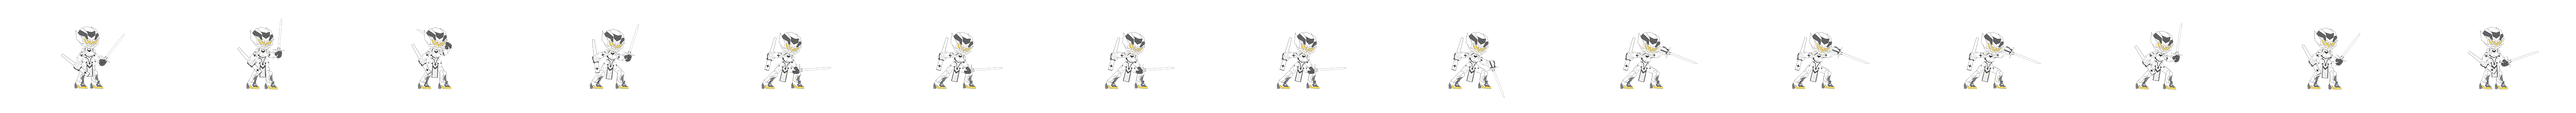
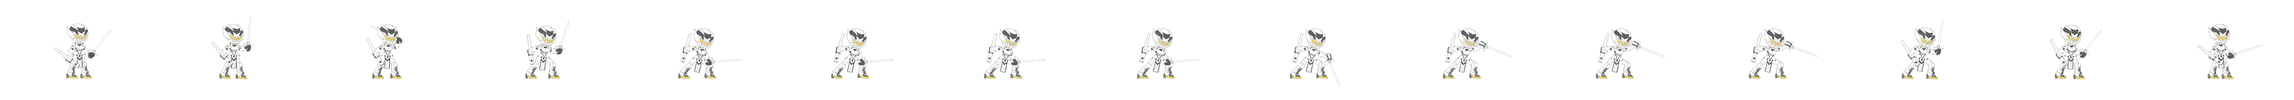
UI complete visual

diff --git a/source/Game/GameObjectTypes.h b/source/Game/GameObjectTypes.h
@@ -11,7 +11,6 @@ Updated:    October		10, 2023
 
 #pragma once
 
-#pragma once
 
 enum class GameObjectTypes
 {
@@ -151,6 +150,66 @@ static std::string toString(GameObjectTypes type)
         case GameObjectTypes::AtkspdBuff_4: return "AtkspdBuff_4";
         case GameObjectTypes::AtkspdBuff_8: return "AtkspdBuff_8";
         case GameObjectTypes::AtkspdBuff_16: return "AtkspdBuff_16";
+        case GameObjectTypes::BuffUnitEnd: return "BuffUnitEnd";
+
+        default: return "Unknown";
+    }
+}
+
+static const char* toStringPath(GameObjectTypes type)
+{
+    switch (type)
+    {
+        case GameObjectTypes::MeleeUnit: return "MeleeUnit";
+        case GameObjectTypes::Sword_1: return "assets/buttons/sword.png";
+        case GameObjectTypes::Sword_2: return "assets/buttons/sword.png";
+        case GameObjectTypes::Sword_4: return "assets/buttons/sword.png";
+        case GameObjectTypes::Sword_8: return "assets/buttons/sword.png";
+        case GameObjectTypes::Sword_16: return "assets/buttons/sword.png";
+
+        case GameObjectTypes::RangedUnit: return "RangedUnit";
+        case GameObjectTypes::Bow_1: return "assets/buttons/bow.png";
+        case GameObjectTypes::Bow_2: return "assets/buttons/bow.png";
+        case GameObjectTypes::Bow_4: return "assets/buttons/bow.png";
+        case GameObjectTypes::Bow_8: return "assets/buttons/bow.png";
+        case GameObjectTypes::Bow_16: return "assets/buttons/bow.png";
+
+        case GameObjectTypes::Rambo_4: return "assets/buttons/rapid.png";
+        case GameObjectTypes::Rambo_8: return "assets/buttons/rapid.png";
+        case GameObjectTypes::Rambo_16: return "assets/buttons/rapid.png";
+
+        case GameObjectTypes::MagicUnit: return "MagicUnit";
+        case GameObjectTypes::Bomb_1: return "assets/buttons/Bomb.png";
+        case GameObjectTypes::Bomb_2: return "assets/buttons/Bomb.png";
+        case GameObjectTypes::Bomb_4: return "assets/buttons/Bomb.png";
+        case GameObjectTypes::Bomb_8: return "assets/buttons/Bomb.png";
+        case GameObjectTypes::Bomb_16: return "assets/buttons/Bomb.png";
+
+        case GameObjectTypes::SpearUnit: return "SpearUnit";
+        case GameObjectTypes::Spear_2: return "assets/buttons/spear.png";
+        case GameObjectTypes::Spear_4: return "assets/buttons/spear.png";
+        case GameObjectTypes::Spear_8: return "assets/buttons/spear.png";
+        case GameObjectTypes::Spear_16: return "assets/buttons/spear.png";
+
+        case GameObjectTypes::TransformUnit: return "SpearUnit";
+        case GameObjectTypes::Transform_2: return "assets/buttons/Transform.png";
+        case GameObjectTypes::Transform_4: return "assets/buttons/Transform.png";
+        case GameObjectTypes::Transform_8: return "assets/buttons/Transform.png";
+        case GameObjectTypes::Transform_16: return "assets/buttons/Transform.png";
+
+        case GameObjectTypes::SniperUnit: return "SniperUnit";
+        case GameObjectTypes::Sniper_2: return "assets/buttons/sniper.png";
+        case GameObjectTypes::Sniper_4: return "assets/buttons/sniper.png";
+        case GameObjectTypes::Sniper_8: return "assets/buttons/sniper.png";
+        case GameObjectTypes::Sniper_16: return "assets/buttons/sniper.png";
+
+        case GameObjectTypes::BuffUnit: return "BuffUnit";
+        case GameObjectTypes::DmgBuff_4: return "assets/buttons/AtkBuff.png";
+        case GameObjectTypes::DmgBuff_8: return "assets/buttons/AtkBuff.png";
+        case GameObjectTypes::DmgBuff_16: return "assets/buttons/AtkBuff.png";
+        case GameObjectTypes::AtkspdBuff_4: return "assets/buttons/SpdBuff.png";
+        case GameObjectTypes::AtkspdBuff_8: return "assets/buttons/SpdBuff.png";
+        case GameObjectTypes::AtkspdBuff_16: return "assets/buttons/SpdBuff.png";
         case GameObjectTypes::BuffUnitEnd: return "BuffUnitEnd";
 
         default: return "Unknown";

diff --git a/source/Game/Objects/Units/RangedUnit.h b/source/Game/Objects/Units/RangedUnit.h
@@ -73,7 +73,7 @@ class Bow_1 : public RangedUnit
 public:
     Bow_1(Math::vec2 position = Map::middle_point) : RangedUnit(3.2, 2, position) 
     { 
-        AddGOComponent(new GAM200::Sprite("assets/tower_s2/animation/gunner/gunner_default.spt", (this)));
+       AddGOComponent(new GAM200::Sprite("assets/tower_s2/animation/gunner/gunner_default.spt", (this)));
         current_state = &state_none;
         current_state->Enter(this);
 
@@ -95,7 +95,7 @@ class Bow_2 : public RangedUnit
 public:
     Bow_2(Math::vec2 position = Map::middle_point) : RangedUnit(3.0, 5, position)
     {
-        AddGOComponent(new GAM200::Sprite("assets/tower_s2/animation/gunner/gunner_default.spt", (this)));
+        AddGOComponent(new GAM200::Sprite("assets/tower_s2/animation/gunner/gunner_2.spt", (this)));
         current_state = &state_none;
         current_state->Enter(this);
 
@@ -115,7 +115,7 @@ class Bow_4 : public RangedUnit
 public:
     Bow_4(Math::vec2 position = Map::middle_point) : RangedUnit(2.8, 20, position)
     {
-        AddGOComponent(new GAM200::Sprite("assets/tower_s2/animation/gunner/gunner_default.spt", (this)));
+        AddGOComponent(new GAM200::Sprite("assets/tower_s2/animation/gunner/gunner_4.spt", (this)));
         current_state = &state_none;
         current_state->Enter(this);
 
@@ -135,7 +135,7 @@ class Bow_8 : public RangedUnit
 public:
     Bow_8(Math::vec2 position = Map::middle_point) : RangedUnit(2.8, 66, position)
     {
-        AddGOComponent(new GAM200::Sprite("assets/tower_s2/animation/gunner/gunner_default.spt", (this)));
+        AddGOComponent(new GAM200::Sprite("assets/tower_s2/animation/gunner/gunner_8.spt", (this)));
         current_state = &state_none;
         current_state->Enter(this);
 
@@ -155,7 +155,7 @@ class Bow_16 : public RangedUnit
 public:
     Bow_16(Math::vec2 position = Map::middle_point) : RangedUnit(2.5, 200, position)
     {
-        AddGOComponent(new GAM200::Sprite("assets/tower_s2/animation/gunner/gunner_default.spt", (this)));
+        AddGOComponent(new GAM200::Sprite("assets/tower_s2/animation/gunner/gunner_16.spt", (this)));
         current_state = &state_none;
         current_state->Enter(this);
 

diff --git a/source/Game/Objects/Units/Sniper.h b/source/Game/Objects/Units/Sniper.h
@@ -15,7 +15,7 @@ public:
 
     virtual GameObjectTypes Type() override { return GameObjectTypes::SniperUnit; }
     virtual std::string TypeName() override { return "SniperUnit"; }
-
+    
     enum class anm
     {
         none,
@@ -69,7 +69,7 @@ class Sniper_2 : public SniperUnit
 public:
     Sniper_2(Math::vec2 position = Map::middle_point) : SniperUnit(5.0, 10, position)
     {
-        AddGOComponent(new GAM200::Sprite("assets/tower_s2/animation/sniper/sniper_default.spt", (this)));
+        AddGOComponent(new GAM200::Sprite("assets/tower_s2/animation/sniper/sniper0.spt", (this)));
         current_state = &state_none;
         current_state->Enter(this);
 
@@ -90,7 +90,7 @@ class Sniper_4 : public SniperUnit
 public:
     Sniper_4(Math::vec2 position = Map::middle_point) : SniperUnit(4.5, 30, position)
     {
-        AddGOComponent(new GAM200::Sprite("assets/tower_s2/animation/sniper/sniper_default.spt", (this)));
+        AddGOComponent(new GAM200::Sprite("assets/tower_s2/animation/sniper/sniper4.spt", (this)));
         current_state = &state_none;
         current_state->Enter(this);
 
@@ -109,7 +109,7 @@ class Sniper_8 : public SniperUnit
 public:
     Sniper_8(Math::vec2 position = Map::middle_point) : SniperUnit(4.3, 90, position)
     {
-        AddGOComponent(new GAM200::Sprite("assets/tower_s2/animation/sniper/sniper_default.spt", (this)));
+        AddGOComponent(new GAM200::Sprite("assets/tower_s2/animation/sniper/sniper8.spt", (this)));
         current_state = &state_none;
         current_state->Enter(this);
 
@@ -128,7 +128,7 @@ class Sniper_16 : public SniperUnit
 public:
     Sniper_16(Math::vec2 position = Map::middle_point) : SniperUnit(4.0, 200, position)
     {
-        AddGOComponent(new GAM200::Sprite("assets/tower_s2/animation/sniper/sniper_default.spt", (this)));
+        AddGOComponent(new GAM200::Sprite("assets/tower_s2/animation/sniper/sniper16.spt", (this)));
         current_state = &state_none;
         current_state->Enter(this);
 

diff --git a/source/Game/Objects/Units/Unit.cpp b/source/Game/Objects/Units/Unit.cpp
@@ -96,21 +96,26 @@ void Unit::Draw(Math::TransformationMatrix camera_matrix)
 
 void Unit::DrawMergeList()
 {
-    float initial_x_value = 200;
-    float initial_y_value = 600;
+    float initial_x_value = 0;
+    float initial_y_value = 500;
 
     for (const auto& pair : merge_list)
     {
+        GameObjectTypes mytype = Type();
         GameObjectTypes target = pair.first;
         GameObjectTypes result = pair.second;
 
-        std::string string = TypeName() + " + " + toString(target) + " = " + toString(result);
-        ShaderDrawing::Image myImage = "assets/buttons/sniper.png";
 
-        ShaderDrawing::draw_text(string, initial_x_value, initial_y_value, 20, 0.0, 0.0, 0.0);
+        ShaderDrawing::Image& myImage     = getImage(mytype);
+        ShaderDrawing::Image& targetImage = getImage(target);
+        ShaderDrawing::Image& resultImage = getImage(result);
+
+
         ShaderDrawing::draw_image(myImage, initial_x_value, initial_y_value, 0, 0, 89, 89);
+        ShaderDrawing::draw_image(targetImage, initial_x_value + 100, initial_y_value, 0, 0, 89, 89);
+        ShaderDrawing::draw_image(resultImage, initial_x_value + 200, initial_y_value, 0, 0, 89, 89);
         //Engine::GetLogger().LogDebug(TypeName() + " + " + toString(target) + " = " + toString(result));
-        initial_y_value -= 30;
+        initial_y_value -= 135;
     }
 }
 
@@ -303,4 +308,16 @@ void Unit::ResetBuff()
 {
     damage_buff = 1.0;
     atkspd_buff = 1.0;
+}
+
+ShaderDrawing::Image& Unit::getImage(GameObjectTypes type)
+{
+    auto it = imageCache.find(type);
+    if (it == imageCache.end())
+    {
+        ShaderDrawing::Image newImage = ShaderDrawing::Image(toStringPath(type));
+        imageCache[type]              = newImage;
+        return imageCache[type];
+    }
+    return it->second;
 }

diff --git a/source/Game/Objects/Button.cpp b/source/Game/Objects/Button.cpp
@@ -216,6 +216,12 @@ void Base_Item1_Button::func()
 {
     if (stock1>0)
         stock1--;
+
+    if (diamond < cost)
+        return;
+    diamond -= cost;
+
+    startGold += 50;
 }
 
 Base_Item2_Button::Base_Item2_Button(Math::vec2 position, Math::vec2 size) : Button(position, size)
@@ -226,6 +232,12 @@ void Base_Item2_Button::func()
 {
     if (stock2 > 0)
         stock2--;
+
+    if (diamond < cost)
+        return;
+    diamond -= cost;
+
+    monsterLimit += 5;
 }
 
 Base_Item3_Button::Base_Item3_Button(Math::vec2 position, Math::vec2 size) : Button(position, size)
@@ -236,6 +248,12 @@ void Base_Item3_Button::func()
 {
     if (stock3 > 0)
         stock3--;
+
+    if (diamond < cost)
+        return;
+    diamond -= cost;
+
+    unit_cost -= 2;
 }
 
 Selected_Stage0_Button::Selected_Stage0_Button(Math::vec2 position, Math::vec2 size) : Button(position, size)

diff --git a/source/Game/Objects/Button.h b/source/Game/Objects/Button.h
@@ -171,6 +171,9 @@ public:
     Base_Item1_Button(Math::vec2 position, Math::vec2 size);
 
     void func() override;
+
+private:
+    int cost = 20;
 };
 
 class Base_Item2_Button : public Button
@@ -179,6 +182,9 @@ public:
     Base_Item2_Button(Math::vec2 position, Math::vec2 size);
 
     void func() override;
+
+private:
+    int cost = 30;
 };
 
 class Base_Item3_Button : public Button
@@ -187,6 +193,9 @@ public:
     Base_Item3_Button(Math::vec2 position, Math::vec2 size);
 
     void func() override;
+
+private:
+    int cost = 30;
 };
 
 class Selected_Stage0_Button : public Button

diff --git a/source/Game/Objects/Units/BuffUnit.h b/source/Game/Objects/Units/BuffUnit.h
@@ -131,11 +131,6 @@ public:
         return GameObjectTypes::BuffUnit;
     }
 
-    virtual std::string TypeName() override
-    {
-        return "BuffUnit";
-    }
-
 protected:
     virtual void Draw(Math::TransformationMatrix camera_matrix);
     bool         restart = false;
@@ -161,7 +156,7 @@ public:
     {
         return "AtkspdBuff_4";
     };
-
+    
     bool CanMergeWith(GameObjectTypes type) override;
     void ResolveMerge(GameObject* other_object) override;
 };

diff --git a/source/Game/Objects/Units/MeleeUnit.h b/source/Game/Objects/Units/MeleeUnit.h
@@ -77,7 +77,8 @@ class Sword_1 : public MeleeUnit
 public:
     Sword_1(Math::vec2 position = Map::middle_point) : MeleeUnit(2.0, 2, position) 
     {
-        AddGOComponent(new GAM200::Sprite("assets/tower_s2/animation/sword/sword_default.spt", (this)));
+       AddGOComponent(new GAM200::Sprite("assets/tower_s2/animation/sword/sword_default.spt", (this)));
+       
         current_state = &state_none;
         current_state->Enter(this);
         

diff --git a/source/Game/Objects/Units/Unit.h b/source/Game/Objects/Units/Unit.h
@@ -107,6 +107,8 @@ protected:
     Math::vec2 position_gap;
 
     std::unordered_map<GameObjectTypes, GameObjectTypes> merge_list;
+    std::unordered_map<GameObjectTypes, ShaderDrawing::Image> imageCache;
+    ShaderDrawing::Image&                                     getImage(GameObjectTypes type);
 
 #if IfWantShader
 

diff --git a/source/Game/Modes/Store.cpp b/source/Game/Modes/Store.cpp
@@ -82,7 +82,6 @@ void Store::Load()
 
 void Store::Update(double dt)
 {
-    std::cout << selected_stage << "," << selected_map << std::endl;
 	GetGSComponent<GAM200::GameObjectManager>()->UpdateAll(dt);
     
     if (Engine::GetInput().KeyJustPressed(GAM200::Input::Keys::_1))
